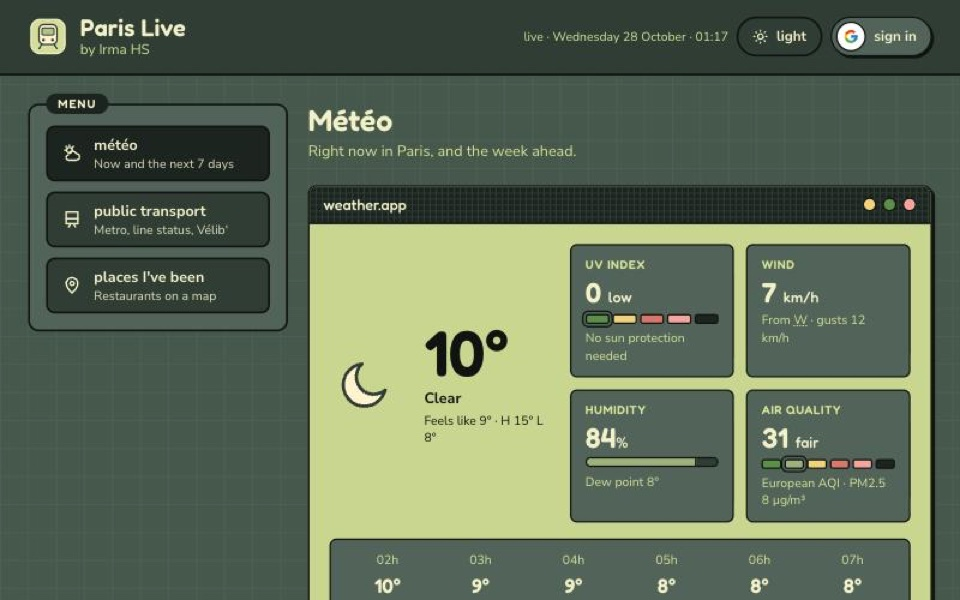
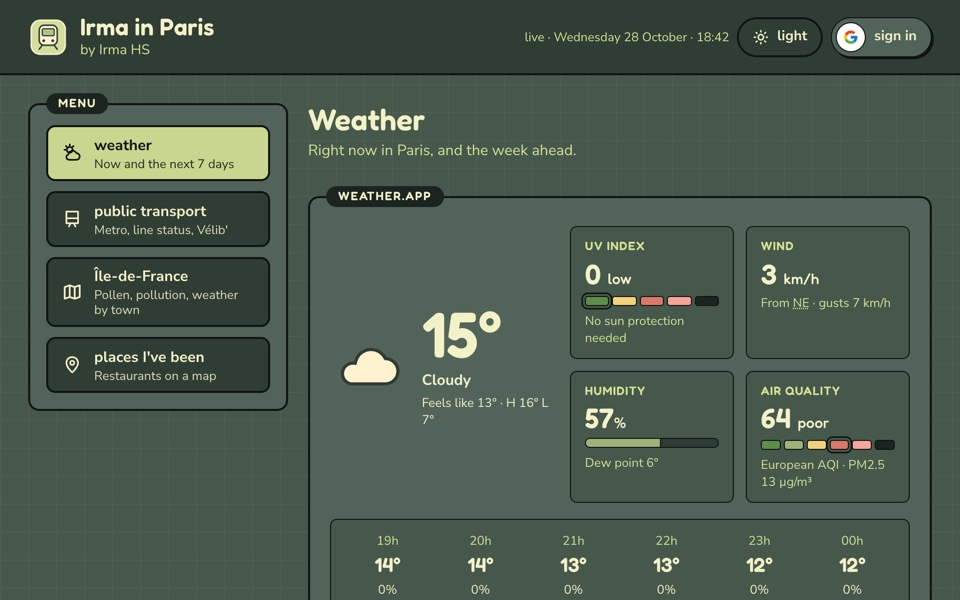
chore: the new CV, no volume slider, and a fresh Irma in Paris screenshot
- The CV to download is the new one: its Personal App Hub now names the
  Paris dashboard (IDFM PRIM, Open-Meteo, Google Places, Protomaps and
  MapLibre, Garage). The rest is unchanged.
- The chat bot's master CV lists Irma in Paris among the apps, and its
  skills add those APIs, MapLibre and Garage.
- now_playing.mp3 drops its volume slider, which never did anything.
- The Irma in Paris tile shows the app under its own name, in Dark Matcha
  at 960 x 600.

diff --git a/src/lib/master-cv.ts b/src/lib/master-cv.ts
@@ -134,6 +134,7 @@ My personal lab: a GitHub organization (9 public repos and 1 private) holding we
   - Safeguards: strict validation of the conversation before any call (400), 8 questions per minute per visitor (429), only the last 12 messages sent, max_tokens capped at 400, a spending limit on the key, Cache-Control: no-store on answers, graceful fallback when OpenRouter is down (502)
   - ask_me.bot window: greeting, three suggested questions, input capped at 500 characters, clear error messages
   - Tests for the route, validation, rate limit and component, with fetch faked so tests never call OpenRouter; the CI smoke test checks that an empty conversation is refused
+- **Irma in Paris** (irma-in-paris repo, irma-in-paris.irmahs.dev): Paris dashboard: the weather, air quality and pollen for Paris and 29 Île-de-France towns (Open-Meteo, Copernicus CAMS), the next train on every metro, RER and Transilien line and line disruptions (IDFM PRIM API, Île-de-France Mobilités), Vélib' bikes (open data), and a map of the restaurants I've eaten at, with photos. Restaurants are picked from the Google Places API so only real places go on the map; photos are kept in Garage (self-hosted S3-compatible storage); the maps are Protomaps' OpenStreetMap basemap drawn by MapLibre from a PMTiles file the app serves itself, in Light and Dark Matcha. Vite, React 19, Hono on Node 24, Postgres 17 with dbmate; anyone can look, only admins add places. API keys stay on the server.
 - **What's in my pantry?** (pantry-spinner repo, pantry-spinner.irmahs.dev): slot-machine meal planner: three reels (protein, vegetables, starch) drawn from actual pantry stock, weighted so items closest to expiring come up first. React 19 + Vite, Hono API validated with zod, PostgreSQL 17, server bundled with esbuild. All vocabulary (categories, cooking methods, diet rules) lives in the database; per-user data isolation enforced down to the foreign keys; transactional diff-based saves; CSRF (Cross-Site Request Forgery) protection through origin checks; guest mode with a demo pantry; Vitest tests on the reel engine and a dedicated CI workflow for migrations. Migrated from Supabase / Vercel.
 - **Album Cover Maker** (album-cover-maker repo, album-cover-maker.irmahs.dev): turns a photo into an album cover (3000 x 3000 PNG) and a music player mock-up (1080 x 1440), drawn with Canvas 2D using the same code for preview and export, with color suggestions drawn from the photo; self-hosted fonts (Fontsource) and photos that never leave the device. Vitest unit and component tests (including a fake canvas that records every draw call) and Playwright end-to-end tests in CI.
 - **Mini Games** (minigames repo, minigames.irmahs.dev, October 15, 2026): browser games, each loaded only when opened. A customizable Wheel of Fortune (2 to 16 slices, up to 8 named wheels) and Super Tic-Tac-Toe (nine planets, ported from my old Electron game). Games saved in localStorage and read back through zod (a damaged save falls back to defaults instead of breaking the page); no backend; static site served by a Caddy container running as an unprivileged user; game rules written as pure functions and tested with Vitest.
@@ -268,8 +269,9 @@ Bachelor's degree, ICT (Information and Communication Technology): mobile and we
 
 ### Full list (to pick from depending on the offer)
 - **Languages**: TypeScript, JavaScript, C#, Java, C, Python, C++, SQL / PL-SQL, HTML/CSS, Dart (Flutter, academic)
-- **Frameworks and libraries**: React, React Native, Next.js, Vite, Tailwind CSS, Angular, AngularJS, .NET, ASP.NET Core, Devbooster (internal), Hono, Electron, Spring / Spring Boot, Flutter, native Android, Selenium, Appium; exposure: Ember.js, Ruby on Rails
-- **Databases**: PostgreSQL, Supabase, dbmate (migrations), localStorage validated with zod, Oracle, SQL Server, MySQL, MongoDB, Neo4j
+- **Frameworks and libraries**: React, React Native, Next.js, Vite, Tailwind CSS, Angular, AngularJS, .NET, ASP.NET Core, Devbooster (internal), Hono, Electron, Spring / Spring Boot, Flutter, native Android, Selenium, Appium, MapLibre (with Protomaps and PMTiles); exposure: Ember.js, Ruby on Rails
+- **Web APIs**: Spotify API, Open-Meteo, IDFM PRIM API (Île-de-France Mobilités), Google Places API, Google OAuth, OpenRouter, Claude API; REST APIs and WebSockets
+- **Databases and storage**: PostgreSQL, Supabase, dbmate (migrations), Garage (self-hosted S3-compatible object storage), localStorage validated with zod, Oracle, SQL Server, MySQL, MongoDB, Neo4j
 - **Infrastructure and deployment**: Docker, Docker Compose, CI/CD (GitHub Actions), Caddy (reverse proxy), Let's Encrypt, Hetzner Linux server, SSH, Cloudflare, Vercel, GitHub Pages
 - **Testing and quality**: unit tests, test campaigns, automation (Selenium, Appium), Vitest, React Testing Library, Playwright, IoT testing, accessibility testing (VoiceOver, TalkBack), test reports
 - **Accessibility**: RGAA, responsive design, accessibility referent

diff --git a/src/components/player.tsx b/src/components/player.tsx
@@ -21,7 +21,6 @@ const ICONS = {
     "M4 11 V9 A3 3 0 0 1 7 6 H19 M16 3 L19 6 L16 9 M20 13 V15 A3 3 0 0 1 17 18 H5 M8 21 L5 18 L8 15",
   shuffle:
     "M3 7 H7 C11 7 13 17 17 17 H21 M18 14 L21 17 L18 20 M3 17 H7 C8.5 17 9.6 15.6 10.6 14 M13.4 10 C14.4 8.4 15.5 7 17 7 H21 M18 4 L21 7 L18 10",
-  volume: "M4 9 H8 L13 5 V19 L8 15 H4 Z M16 9 C17.5 10.5 17.5 13.5 16 15",
 };
 
 // The controls are for show while music plays: they press, but don't change
@@ -252,12 +251,6 @@ export const Player = ({ now }: { now: Date | null }) => {
         </div>
 
         <Controls playing={playing} songs={songs} />
-
-        <label className="volume" title={SOON}>
-          <Icon d={ICONS.volume} />
-          <span className="sr-only">Volume</span>
-          <input defaultValue={70} max={100} min={0} type="range" />
-        </label>
       </div>
     </Window>
   );

diff --git a/src/app/globals.css b/src/app/globals.css
@@ -1296,27 +1296,6 @@ button.account {
   width: 20px;
   height: 20px;
 }
-.volume {
-  display: flex;
-  align-items: center;
-  gap: 8px;
-}
-.volume svg {
-  flex: none;
-  width: 18px;
-  height: 18px;
-  fill: none;
-  stroke: currentColor;
-  stroke-width: 2;
-  stroke-linecap: round;
-  stroke-linejoin: round;
-}
-.volume input {
-  flex: 1;
-  min-width: 0;
-  margin: 0;
-  accent-color: var(--bar);
-}
 
 /* ---------- profile ---------- */
 .profile-window {
